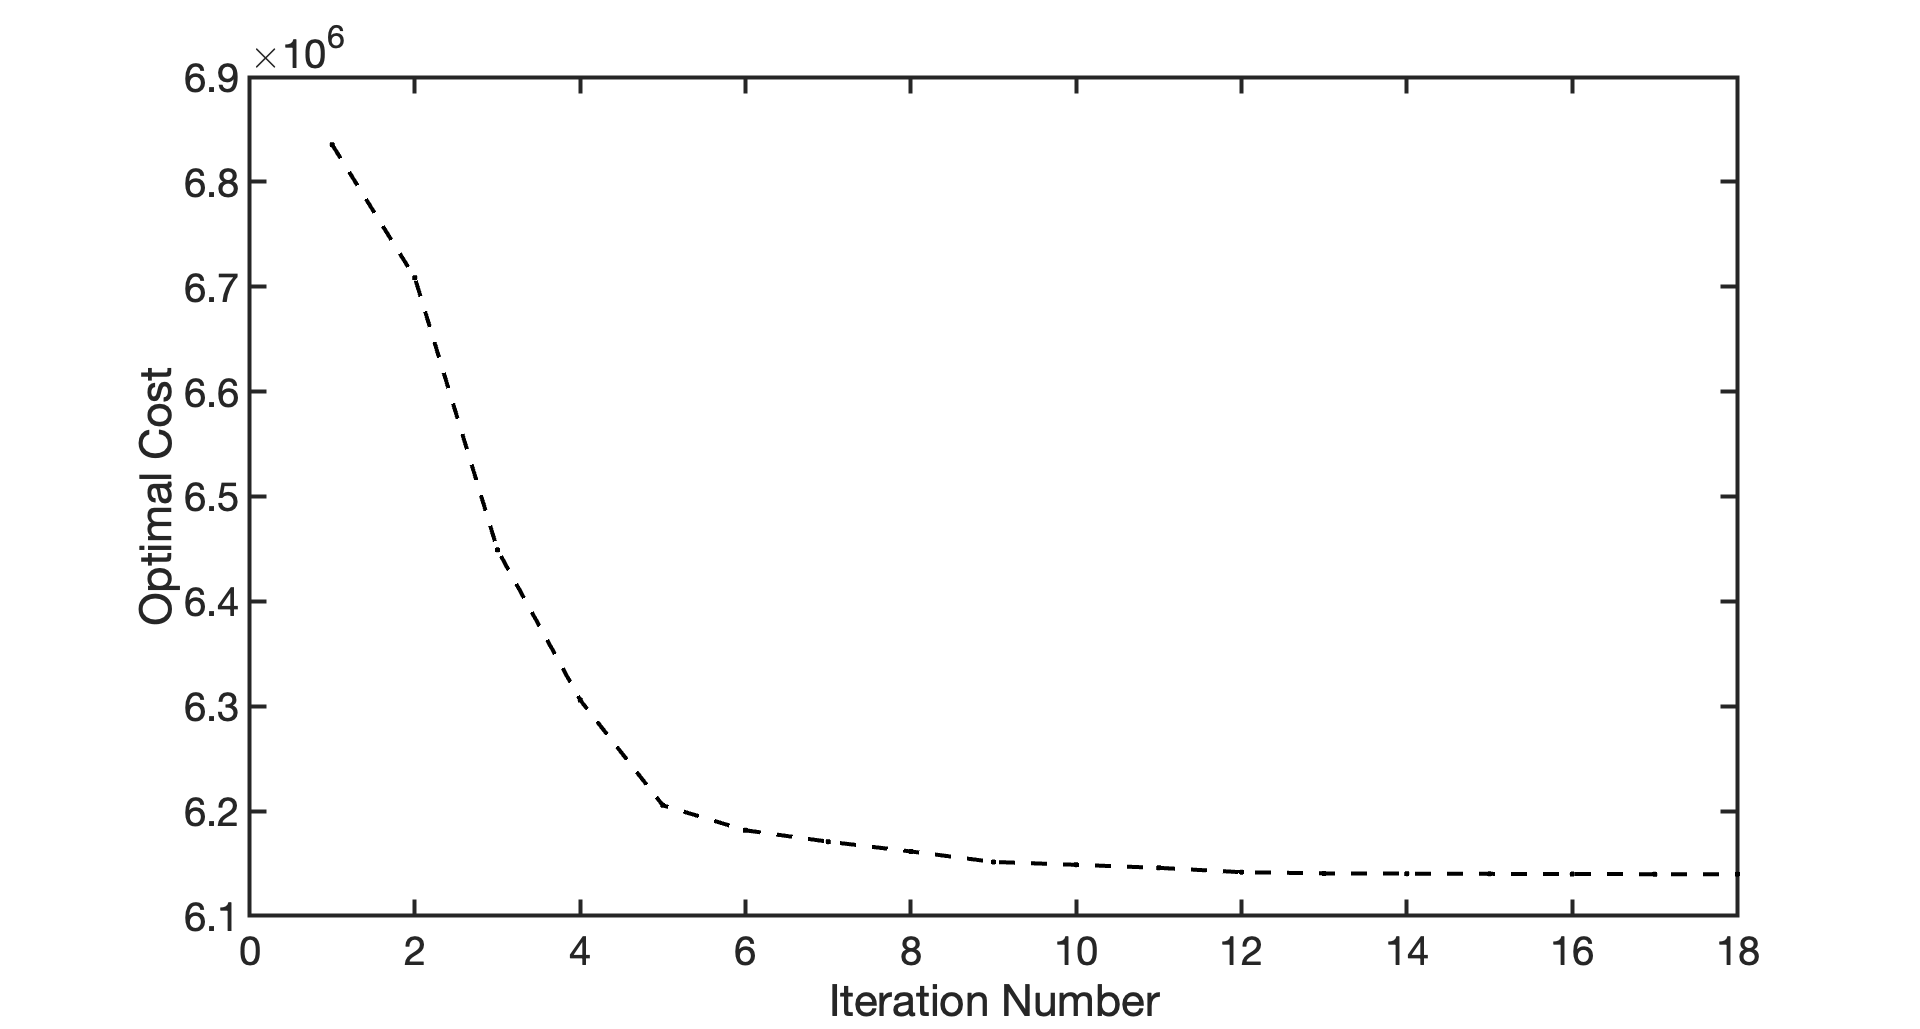
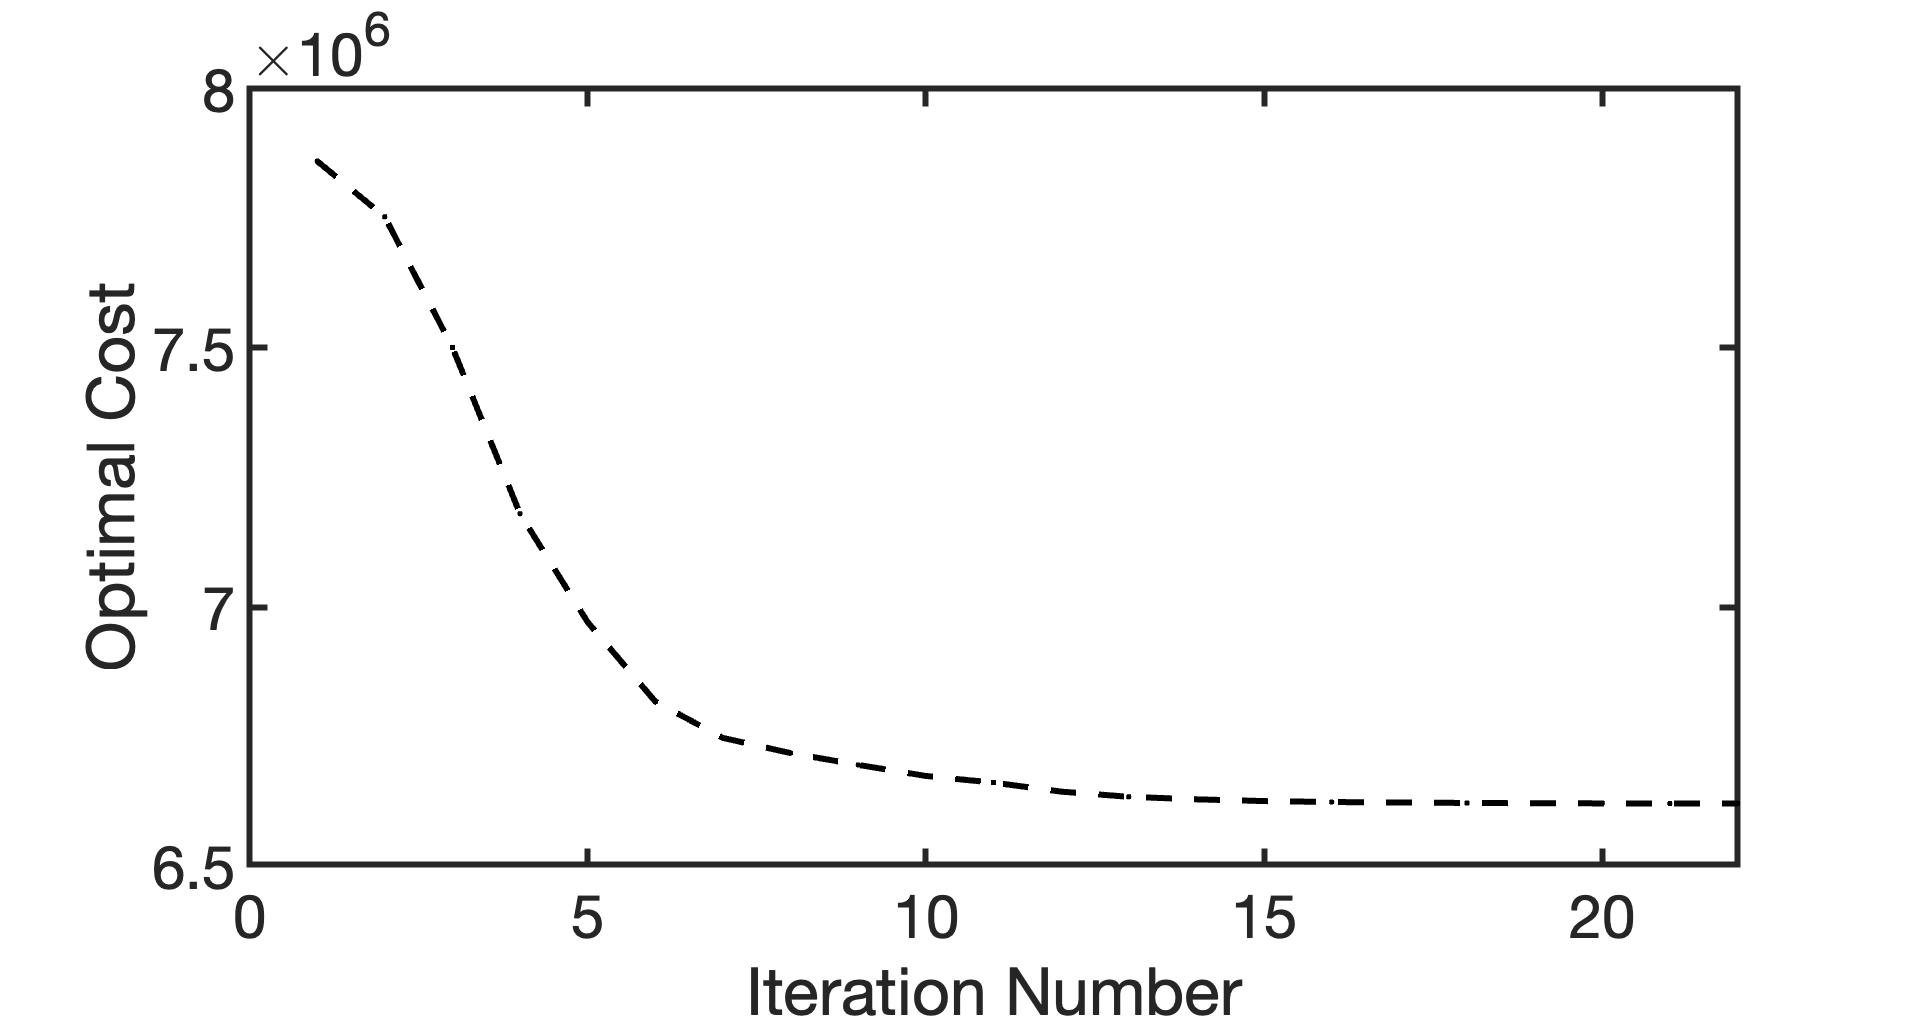
Fixed plotting

diff --git a/mainCSDRRA.m b/mainCSDRRA.m
@@ -10,8 +10,8 @@
 close all; clear all; clc;
 
 % Select the required flags
-riskSelectFlag = 1; % 1 for Gaussian chance constraint, 2 for DR Risk Constraint
-dynamicsSelectFlag = 2; % 1 for 3D spacecraft, 2 for Double Integrator 
+riskSelectFlag = 2; % 1 for Gaussian chance constraint, 2 for DR Risk Constraint
+dynamicsSelectFlag = 1; % 1 for 3D spacecraft, 2 for Double Integrator 
 
 % Set Horizon and load the data
 if (dynamicsSelectFlag == 1)
@@ -32,13 +32,14 @@ figNum = 1;
 figure(figNum); 
 grid on;
 plot(JstarVec,'.--k','MarkerSize',15);
+xlim([0 iter]);
 xlabel('Iteration Number');
 ylabel('Optimal Cost');
 a = findobj(gcf, 'type', 'axes');
 h = findobj(gcf, 'type', 'line');
-set(h, 'linewidth', 4);
-set(a, 'linewidth', 4);
-set(a, 'FontSize', 40);
+set(h, 'linewidth', 6);
+set(a, 'linewidth', 6);
+set(a, 'FontSize', 60);
 
 % Calculate true deltas after IRA
 Ns = PS.Ns;
@@ -64,9 +65,9 @@ FuelCosts = norm(Vstar,1);
 figNum = figNum + 1;
 figure(figNum); 
 subplot(1,2,1); hold on; grid on;
-plot(PS.dt * [1:PS.N],PS.deltax(2,:),'*k','MarkerSize',20);
+plot(PS.dt * [1:PS.N],PS.deltax(2,:),'*k','MarkerSize',30);
 if (dynamicsSelectFlag == 1)
-    plot(PS.dt * [1:PS.N],PS.deltax(3,:),'or','MarkerSize',10,'LineWidth',1);
+    plot(PS.dt * [1:PS.N],PS.deltax(3,:),'or','MarkerSize',20,'LineWidth',1);
     legend({'$\delta_r$','$\delta_u$'},'Interpreter','latex','FontSize',20);
 elseif(dynamicsSelectFlag == 2)
     legend({'$\delta_r$'},'Interpreter','latex','FontSize',20);
@@ -75,9 +76,9 @@ xlabel('Time (s)','Interpreter','latex','FontSize',15);
 ylabel('Allocated Risk','Interpreter','latex','FontSize',15);
 set(gca,'FontSize',15);
 subplot(1,2,2); hold on; grid on;
-plot(PS.dt * [1:PS.N],PS.deltabar(2,:),'*k','MarkerSize',20);
+plot(PS.dt * [1:PS.N],PS.deltabar(2,:),'*k','MarkerSize',30);
 if (dynamicsSelectFlag == 1)
-    plot(PS.dt * [1:PS.N],PS.deltabar(3,:),'or','MarkerSize',10,'LineWidth',1);
+    plot(PS.dt * [1:PS.N],PS.deltabar(3,:),'or','MarkerSize',20,'LineWidth',1);
     legend({'$\bar{\delta}_r$','$\bar{\delta}_u$'},'Interpreter','latex','FontSize',20);
 elseif(dynamicsSelectFlag == 2)
     legend({'$\bar{\delta}_r$'},'Interpreter','latex','FontSize',20);
@@ -89,17 +90,17 @@ a = findobj(gcf, 'type', 'axes');
 h = findobj(gcf, 'type', 'line');
 set(h, 'linewidth', 4);
 set(a, 'linewidth', 4);
-set(a, 'FontSize', 40);
+set(a, 'FontSize', 60);
 
 % Perform Monte-Carlo in Post Processing
 numMonteTrials = 500;
 if (dynamicsSelectFlag == 1)
     figNum = figNum + 1;
     PostProcess(figNum,numMonteTrials,Vstar,Kstar,PS);
-    figNum = figNum + 1;
-    PostProcess3D(figNum,numMonteTrials,Vstar,Kstar,PS,1);
-    figNum = figNum + 3; % Because PostProcess3D produces 3 figures
-    PostProcess3D(7,numMonteTrials,Vstar,Kstar,PS,0);
+%     figNum = figNum + 1;
+%     PostProcess3D(figNum,numMonteTrials,Vstar,Kstar,PS,1);
+%     figNum = figNum + 2; % Because PostProcess3D produces 2 figures
+%     PostProcess3D(7,numMonteTrials,Vstar,Kstar,PS,0);
 elseif (dynamicsSelectFlag == 2)
     figNum = figNum + 1;
     PostProcessDoubleIntegrator(figNum,numMonteTrials,Vstar,Kstar,PS);

diff --git a/mainDRCS.m b/mainDRCS.m
@@ -10,7 +10,7 @@
 close all; clear all; clc;
 
 % Select the required flags
-riskSelectFlag = 1; % 1 for Gaussian chance constraint, 2 for DR Risk Constraint
+riskSelectFlag = 2; % 1 for Gaussian chance constraint, 2 for DR Risk Constraint
 dynamicsSelectFlag = 1; % 1 for 3D spacecraft, 2 for Double Integrator 
 
 % Set Horizon and load the data
@@ -50,8 +50,8 @@ figure(figNum);
 subplot(1,2,1); 
 hold on; 
 grid on;
-plot(PS.dt*[1:N],PS.deltax(2,:),'*k','MarkerSize',20);
-plot(PS.dt*[1:N],PS.deltax(3,:),'or','MarkerSize',10,'LineWidth',1);
+plot(PS.dt*[1:N],PS.deltax(2,:),'*k','MarkerSize',30);
+plot(PS.dt*[1:N],PS.deltax(3,:),'or','MarkerSize',20,'LineWidth',1);
 ylim([0 9E-04]);
 legend({'$\delta_r$','$\delta_u$'},'Interpreter','latex','FontSize',30,'Location','SouthWest');
 xlabel('Time (s)','Interpreter','latex','FontSize',15);
@@ -60,12 +60,12 @@ a = findobj(gcf, 'type', 'axes');
 h = findobj(gcf, 'type', 'line');
 set(h, 'linewidth', 2);
 set(a, 'linewidth', 2);
-set(a, 'FontSize', 40);
+set(a, 'FontSize', 50);
 subplot(1,2,2); 
 hold on; 
 grid on;
-plot(PS.dt*[1:N],deltabar(2,:),'*k','MarkerSize',20);
-plot(PS.dt*[1:N],deltabar(3,:),'or','MarkerSize',10,'LineWidth',1);
+plot(PS.dt*[1:N],deltabar(2,:),'*k','MarkerSize',30);
+plot(PS.dt*[1:N],deltabar(3,:),'or','MarkerSize',20,'LineWidth',1);
 ylim([0 9E-04]);
 legend({'$\bar{\delta}_r$','$\bar{\delta}_u$'},'Interpreter','latex','FontSize',30,'Location','SouthWest');
 xlabel('Time (s)','Interpreter','latex','FontSize',15);
@@ -74,15 +74,16 @@ a = findobj(gcf, 'type', 'axes');
 h = findobj(gcf, 'type', 'line');
 set(h, 'linewidth', 2);
 set(a, 'linewidth', 2);
-set(a, 'FontSize', 40);
+set(a, 'FontSize', 60);
 
+numMonteTrials = 500;
 if (dynamicsSelectFlag == 1)
     figNum = figNum + 1;
-    PostProcess(figNum,100,Vsol,Ksol,PS);
-    figNum = figNum + 1;
-    PostProcess3D(figNum,100,Vsol,Ksol,PS,1);
-    V_N = computeVolumeN(PS,Ksol);
+    PostProcess(figNum,numMonteTrials,Vsol,Ksol,PS);
+%     figNum = figNum + 1;
+%     PostProcess3D(figNum,numMonteTrials,Vsol,Ksol,PS,1);
+%     V_N = computeVolumeN(PS,Ksol);
 elseif(dynamicsSelectFlag == 2)
     figNum = figNum + 1;
-    PostProcessDoubleIntegrator(figNum,100,Vsol,Ksol,PS);
+    PostProcessDoubleIntegrator(figNum,numMonteTrials,Vsol,Ksol,PS);
 end

diff --git a/PostProcess.m b/PostProcess.m
@@ -14,6 +14,7 @@ function PostProcess(fignum,MCnum,V,K,PS)
     
     grey = [0.8 0.8 0.8];
     darkgrey = [0.6 0.6 0.6];
+    orange = [0.850 0.325 0.098];
     
     EX = PS.ScriptA*PS.mu0 + PS.ScriptB*V;
     
@@ -42,7 +43,7 @@ function PostProcess(fignum,MCnum,V,K,PS)
        h = findobj(gcf, 'type', 'line');
        set(h, 'linewidth', 2);
        set(a, 'linewidth', 2);
-       set(a, 'FontSize', 40);
+       set(a, 'FontSize', 60);
        hold off;
     end
     nominal = value(EX);
@@ -76,12 +77,12 @@ function PostProcess(fignum,MCnum,V,K,PS)
 %             set(h,'LineWidth',1);
     end
     
-    xl = linspace(-20,0);
-    xr = linspace(0,140);
+    xl = linspace(-10,0);
+    xr = linspace(0,120);
     plot(xr, -xr + PS.stateCC_offset, '--k','LineWidth',1);
     plot(xl, xl + PS.stateCC_offset, '--k','LineWidth',1);
-    ineqplot('y > -x+5',[-20 140 -140 10],darkgrey);
-    ineqplot('y > x+5',[-20 140 -140 10],darkgrey);
+    ineqplot('y > -x+5',[-10 120 -130 10],darkgrey);
+    ineqplot('y > x+5',[-10 120 -130 10],darkgrey);
     grid on;
     xlabel('$x$ (m)','Interpreter','latex','FontSize',15);
     ylabel('$y$ (m)','Interpreter','latex','FontSize',15);
@@ -89,6 +90,6 @@ function PostProcess(fignum,MCnum,V,K,PS)
     h = findobj(gcf, 'type', 'line');
     set(h, 'linewidth', 2);
     set(a, 'linewidth', 2);
-    set(a, 'FontSize', 40);
+    set(a, 'FontSize', 60);
     hold off;
 end

diff --git a/mainCS_DRCC.m b/mainCS_DRCC.m
@@ -34,15 +34,16 @@ fignum = 1;
 figure(fignum);
 grid on;
 plot(JstarVec,'.--k','MarkerSize',15);
+xlim([0 niter]);
 xlabel('Iteration Number','FontSize',12);
 ylabel('Optimal Cost','FontSize',12);
 a = findobj(gcf, 'type', 'axes');
 h = findobj(gcf, 'type', 'line');
-set(h, 'linewidth', 4);
-set(a, 'linewidth', 4);
-set(a, 'FontSize', 40);
+set(h, 'linewidth', 6);
+set(a, 'linewidth', 6);
+set(a, 'FontSize', 60);
 
-% Plot The Post Processed Results
+%%  Plot The Post Processed Results
 deltax_RUB_IRA = PS.deltax';
 deltaTrue_RUB_IRA = computeTrueDeltaC_ConeConstraints_RUB(PS,Vstar,Kstar,fstar, riskSelectFlag);  
 deltaTrue_RUB_IRA_max = max(max(deltaTrue_RUB_IRA));
@@ -57,15 +58,15 @@ a = findobj(gcf, 'type', 'axes');
 h = findobj(gcf, 'type', 'line');
 set(h, 'linewidth', 4);
 set(a, 'linewidth', 4);
-set(a, 'FontSize', 40);
+set(a, 'FontSize', 60);
 hold off;
 
-% Perform Monte-Carlo in Post Processing
+%% Perform Monte-Carlo in Post Processing
 if (dynamicsSelectFlag == 1)
     fignum = fignum + 1;
-    PostProcess_ConeConstraints_New(fignum,100,Vstar,Kstar,PS)
+    PostProcess_ConeConstraints_New(fignum,500,Vstar,Kstar,PS)
     fignum = fignum + 1;
-    PostProcess3D_CC(fignum,100,Vstar,Kstar,PS,1);
+    PostProcess3D_CC(fignum,500,Vstar,Kstar,PS,1);
 elseif(dynamicsSelectFlag == 2)
     fignum = fignum + 1;
     PostProcessDoubleIntegrator(fignum,100,Vstar,Kstar,PS);

diff --git a/PostProcess3D.m b/PostProcess3D.m
@@ -32,10 +32,11 @@ function PostProcess3D(fignum,MCnum,V,K,PS,bool)
     h = findobj(gcf, 'type', 'line');
     set(h, 'linewidth', 2);
     set(a, 'linewidth', 2);
-    set(a, 'FontSize', 40);
+    set(a, 'FontSize', 50);
 
     %% Plot optimal trajectories and covariance ellipsoids
     grey    = [0.7 0.7 0.7];
+    orange  = [0.850 0.325 0.098];
     nx      = PS.nx;
     nu      = PS.nu;
     nw      = PS.nw;
@@ -80,7 +81,7 @@ function PostProcess3D(fignum,MCnum,V,K,PS,bool)
        end       
        
        xhist(:, :, mc) = x_MC;
-       plot3(x_MC(1, :), x_MC(2, :), x_MC(3, :), 'color', grey);
+       plot3(x_MC(1, :), x_MC(2, :), x_MC(3, :), 'color', orange);
     end
     
     EX         = ScriptA * mu0 + ScriptB * V;
@@ -207,7 +208,7 @@ function PostProcess3D(fignum,MCnum,V,K,PS,bool)
             h = findobj(gcf, 'type', 'line');
             set(h, 'linewidth', 2);
             set(a, 'linewidth', 2);
-            set(a, 'FontSize', 40);
+            set(a, 'FontSize', 50);
         end
         %%%%%%%%%%%%%%%%%%%%%%%%%%%%%%%%%%%%%%%%%%%%%%%%%%%%%%%
         

diff --git a/IterativeRiskAllocation.m b/IterativeRiskAllocation.m
@@ -34,13 +34,7 @@ function [PS,Vsol,Ksol,JstarVec,niter] = IterativeRiskAllocation(PS,eps, dynamic
         end
 
         % Check active or inactive constraints
-        [bool,diff] = isActive(Vsol,Ksol,PS, riskSelectFlag);
-
-        % Look at distribution of constraints after initial "uniform" allocation
-        % figure; hold on; grid on;
-        % plot(diff(1,:),'.k','MarkerSize',15);
-        % plot(diff(2,:),'.b','MarkerSize',15);
-        % legend('Lower Constraint','Upper Constraint');
+        [bool,diff] = isActive(Vsol,Ksol,PS, riskSelectFlag);        
 
         Nactive = sum(sum(bool));
         if Nactive == 0 || Nactive == PS.N * PS.Ns

diff --git a/PostProcess3D_CC.m b/PostProcess3D_CC.m
@@ -36,7 +36,7 @@
     h = findobj(gcf, 'type', 'line');
     set(h, 'linewidth', 2);
     set(a, 'linewidth', 2);
-    set(a, 'FontSize', 40);
+    set(a, 'FontSize', 60);
   
     %% Plot optimal trajectories and covariance ellipsoids
     % Color for plotting
@@ -71,7 +71,7 @@
     xhist = zeros(nx,N+1,MCnum);
     for mc = 1:MCnum
        x0_MC = mvlaprnd(nx,mu0,Sigma0,1);  
-       x0_MC = mu0 + sqrtm(Sigma0) * randn(nx,1);
+       % x0_MC = mu0 + sqrtm(Sigma0) * randn(nx,1);
        x_MC = zeros(nx,N+1);
        y_MC = zeros(nx,N+1);
        x_MC(:,1) = x0_MC;

diff --git a/PostProcess_ConeConstraints_New.m b/PostProcess_ConeConstraints_New.m
@@ -84,7 +84,7 @@ function PostProcess_ConeConstraints_New(fignum,MCnum,V,K,PS)
        h = findobj(gcf, 'type', 'line');
        set(h, 'linewidth', 4);
        set(a, 'linewidth', 4);
-       set(a, 'FontSize', 40);
+       set(a, 'FontSize', 60);
     end
     
     % Set confidence on covariance ellipses
@@ -127,6 +127,6 @@ function PostProcess_ConeConstraints_New(fignum,MCnum,V,K,PS)
     h = findobj(gcf, 'type', 'line');
     set(h, 'linewidth', 4);
     set(a, 'linewidth', 4);
-    set(a, 'FontSize', 40);
+    set(a, 'FontSize', 60);
     
 end

diff --git a/loadProblemSetup3D.m b/loadProblemSetup3D.m
@@ -8,7 +8,8 @@
 function PS = loadProblemSetup3D(N)
     PS.N = N;
     % Initial condition 
-    PS.mu0 = [90; -120; 90; 0; 0; 0]; % [30; -40; 20; 0; 0; 0];
+    % PS.mu0 = [90; -120; 90; 0; 0; 0]; 
+    PS.mu0 = [100; -120; 90; 0; 0; 0]; 
     PS.Sigma0 = 0.01*blkdiag(10,10,10,1,1,1);    
     % Terminal Condition
     PS.muf = [0;0;0;0;0;0];
